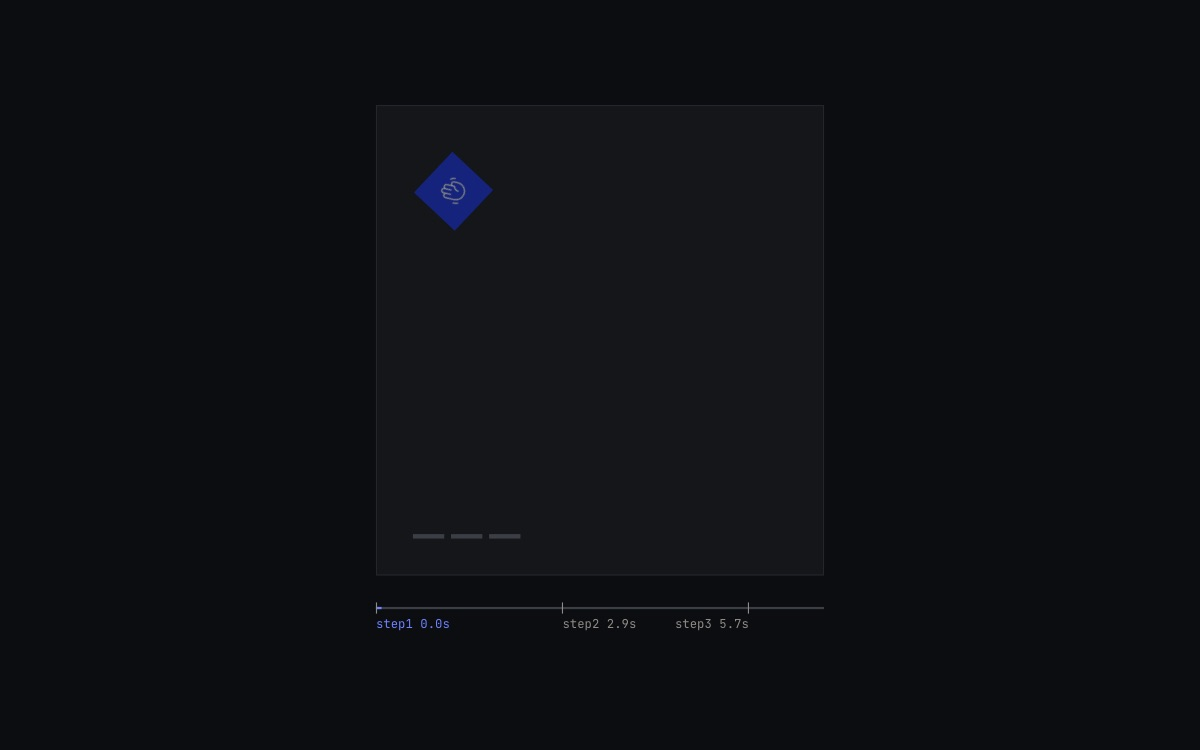
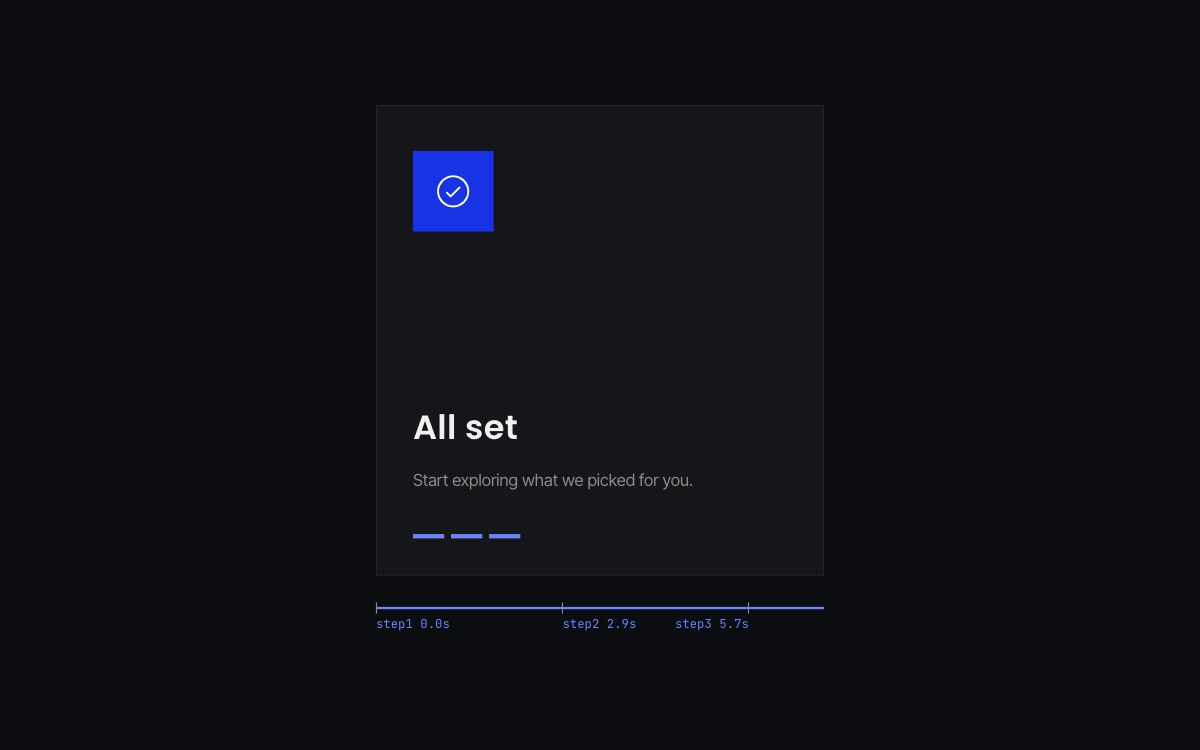
練習 42 加入左右甩出版本（可切換）；複製時自動拿掉示範動畫；首頁切換語言不再空白（記住捲動位置）；練習 40 面板 hover 顏色依模式反轉；練習 02 縮圖改截完成畫面

diff --git a/works/42-falling-stack/script.js b/works/42-falling-stack/script.js
@@ -1,8 +1,9 @@
 gsap.registerPlugin(ScrollTrigger);
 
 // ── 試著改這幾個數字 ──
-const PER_CARD = 0.6;   // 每張卡片掉落要捲多遠（畫面高的倍數）：越大掉得越慢
-const TILT = 12;        // 掉落時最多轉幾度
+const PER_CARD = 0.6;   // 每張卡片離場要捲多遠（畫面高的倍數）：越大越慢
+const TILT = 12;        // 往下掉落時最多轉幾度
+const SWIPE_TILT = 24;  // 左右甩出時轉幾度（甩出去的力道比較大，轉得多一點）
 const SCRUB = 0.6;      // 跟手的延遲秒數；改成 true 會完全貼著捲動
 
 // 是否顯示 markers：由作品頁預覽上方的開關決定（首頁縮圖預設不顯示）
@@ -15,33 +16,68 @@ cards.forEach((card, i) => { card.style.zIndex = cards.length - i; });
 
 // 疊起來的樣子：第 n 張往上錯開 n × 20px、縮小 n × 6%、暗一點（越後面越小、越高、越暗）
 const stacked = n => ({ y: -n * 20, scale: 1 - n * 0.06, filter: `brightness(${1 - n * 0.18})` });
-cards.forEach((card, i) => gsap.set(card, stacked(i)));
 
-if (!reduce) {
-  const tl = gsap.timeline({
+// 兩種離場方式：回傳「第 i 張卡片」要動到哪裡
+const EXITS = {
+  // 往下掉出畫面，左右交替傾斜；ease 一開始慢、越掉越快，像受重力影響
+  fall: i => ({
+    y: () => innerHeight,
+    rotation: (i % 2 ? -1 : 1) * TILT,
+    // 只在最後 40% 才淡出：太早半透明會透出後面的卡片，看起來像掉到後面去
+    opacity: 0,
+    ease: 'power2.in'
+  }),
+  // 左右交替甩出畫面：往旁邊飛、稍微往上揚、轉比較多；甩出去不用淡出，直接飛出畫面外
+  swipe: i => {
+    const dir = i % 2 ? -1 : 1;
+    return {
+      x: () => dir * (innerWidth / 2 + cards[0].offsetWidth), // 中心點移到畫面外，再多一張卡片寬，確保整張出去
+      y: -40,
+      rotation: dir * SWIPE_TILT,
+      ease: 'power1.in'
+    };
+  }
+};
+
+let tl;
+function build(mode) {
+  // 換方式時：先把舊的 timeline 和它的 ScrollTrigger（含固定畫面）拆掉，卡片回到疊好的樣子
+  if (tl) { tl.scrollTrigger.kill(); tl.kill(); }
+  gsap.set(cards, { clearProps: 'x,y,rotation,opacity' });
+  cards.forEach((card, i) => gsap.set(card, stacked(i)));
+  if (reduce) return; // 減少動態：維持疊好的樣子，不做離場動畫
+
+  tl = gsap.timeline({
     defaults: { ease: 'none' },
     scrollTrigger: {
       trigger: '.pile',
       start: 'top top',
       end: () => `+=${innerHeight * PER_CARD * (cards.length - 1)}`, // 每張卡片分到一段捲動距離
-      pin: true,           // 固定住：卡片沒掉完之前，頁面看起來不會往下走
+      pin: true,           // 固定住：卡片沒離場完之前，頁面看起來不會往下走
       scrub: SCRUB,
       invalidateOnRefresh: true,
       markers: SHOW_MARKERS
     }
   });
 
-  // 最後一張留著（掉完所有卡片後，畫面上還有東西），其他依序掉落
+  // 最後一張留著（其他都離場後，畫面上還有東西），其他依序離場
   cards.slice(0, -1).forEach((card, i) => {
     const at = i; // 第 i 段捲動
-    tl.to(card, {
-      y: () => innerHeight,                                   // 往下掉出畫面
-      rotation: (i % 2 ? -1 : 1) * TILT,                       // 左右交替傾斜
-      opacity: 0,
-      duration: 1,
-      ease: 'power2.in'                                         // 一開始慢、越掉越快，像受重力影響
-    }, at);
+    const { opacity, ...move } = EXITS[mode](i);
+    tl.to(card, { ...move, duration: 1 }, at);
+    if (opacity !== undefined) tl.to(card, { opacity, duration: 0.4 }, at + 0.6);
     // 同一段時間裡，後面的每張卡片都往前遞補一格（變大、往下）
     cards.slice(i + 1).forEach((rest, j) => tl.to(rest, { ...stacked(j), duration: 1, ease: 'power2.out' }, at));
   });
 }
+
+// ── 切換按鈕 ──
+const buttons = document.querySelectorAll('.mode-btn');
+buttons.forEach(btn => btn.addEventListener('click', () => {
+  buttons.forEach(b => b.setAttribute('aria-pressed', b === btn));
+  // 先回到最上面再重建：卡片從疊好的樣子重新開始
+  window.scrollTo(0, 0);
+  build(btn.dataset.mode);
+}));
+
+build('fall');

diff --git a/js/works-data.js b/js/works-data.js
@@ -112,7 +112,8 @@ export const WORKS = [
           "en": "Each step’s entrance is a function that returns a small timeline, added to the main one with tl.add(). All three steps share the same code."
         }
       }
-    ]
+    ],
+    "thumbEnd": true
   },
   {
     "id": "03-scroll-logo",
@@ -2406,23 +2407,24 @@ export const WORKS = [
   {
     "id": "42-falling-stack",
     "title": {
-      "zh-TW": "捲動時堆疊卡片依序掉落",
-      "en": "Stacked cards fall away as you scroll"
+      "zh-TW": "捲動時堆疊卡片依序掉落或甩出",
+      "en": "Stacked cards fall or swipe away as you scroll"
     },
     "short": {
       "zh-TW": "卡片依序掉落",
       "en": "Falling stack"
     },
     "summary": {
-      "zh-TW": "和「捲動時卡片堆疊」相反：一開始就是一疊卡片，往下捲時畫面先固定住，最上面的卡片一張張往下掉落消失、後面的往前遞補；掉完之後頁面才真的開始捲動。往回捲會再疊回去。",
-      "en": "The reverse of “cards stack as you scroll”: it starts as a stack, the view stays pinned while the top cards fall away one by one and the rest move forward; only then does the page actually scroll. Scroll back to restack them."
+      "zh-TW": "和「捲動時卡片堆疊」相反：一開始就是一疊卡片，往下捲時畫面先固定住，最上面的卡片一張張離場、後面的往前遞補；全部離場後頁面才真的開始捲動。上方可切換兩種離場方式：往下掉落，或左右交替甩出。往回捲會再疊回去。",
+      "en": "The reverse of “cards stack as you scroll”: it starts as a stack, the view stays pinned while the top cards leave one by one and the rest move forward; only then does the page actually scroll. Switch between two exits at the top: falling down, or swiping out left and right. Scroll back to restack them."
     },
     "topic": "scroll",
     "tech": "ScrollTrigger",
     "tags": [
       "pin",
       "scrub",
-      "power2.in"
+      "power2.in",
+      "x / rotation"
     ],
     "date": "2026-11-23",
     "markers": true,
@@ -2447,6 +2449,13 @@ export const WORKS = [
         "text": {
           "zh-TW": "掉落用「一開始慢、越來越快」的 ease，像受重力影響；後面的卡片往前遞補則用 power2.out，快到位、慢慢停。",
           "en": "Falling uses an ease that starts slow and speeds up, like gravity; the cards behind move forward with power2.out, arriving quickly and settling."
+        }
+      },
+      {
+        "code": "EXITS = { fall, swipe }",
+        "text": {
+          "zh-TW": "兩種離場方式寫成兩個函式，回傳「第 i 張卡片要動到哪裡」，其他（固定畫面、遞補）完全共用。甩出用 x 往左右交替飛出畫面（i % 2 決定方向），轉的角度比掉落大、不用淡出；切換時先把舊的 timeline 和 ScrollTrigger 拆掉再重建。",
+          "en": "Each exit is a function that returns where card i should go; pinning and the move-forward are shared. Swipe flies cards out with x, alternating sides by i % 2, with more rotation and no fade. Switching kills the old timeline and its ScrollTrigger, then rebuilds."
         }
       },
       {

diff --git a/works/26-tilt-card/script.js b/works/26-tilt-card/script.js
@@ -24,6 +24,7 @@ if (!reduce && window.matchMedia('(hover: hover)').matches) {
   // 光斑是卡片的 2 倍大（inset: -50%），所以移動「卡片寬度 × px」= 自己寬度的 px × 50%
   const GLARE = 50;
 
+  let demo = null; // 自動示範的 timeline（滑鼠進來時停掉；複製時示範被拿掉就是 null）
   card.addEventListener('pointermove', e => {
     const { px, py } = point(e);
     rotY(px * MAX_TILT * 2);     // 左右移動 → 繞 Y 軸轉
@@ -32,7 +33,7 @@ if (!reduce && window.matchMedia('(hover: hover)').matches) {
     glY(py * GLARE);
   });
   card.addEventListener('pointerenter', e => {
-    demo.kill();
+    demo?.kill();
     // 一進來就把光斑放在游標的位置（quickTo 第二個值是起點：起點＝終點就是直接跳過去），再淡入
     // 不這樣做的話，光斑會從上一次的位置（通常是正中央）滑過來
     const { px, py } = point(e);
@@ -48,10 +49,12 @@ if (!reduce && window.matchMedia('(hover: hover)').matches) {
     gsap.to(glare, { opacity: 0, duration: 0.4 }); // 只淡出、位置不動：下次進來時直接從游標的位置出現
   });
 
+  // #region demo（複製時會自動拿掉這一段：只是載入後自己播一次給你看）
   // ── 自動示範一次（首頁縮圖也看得到動態）：左右輕輕晃一下再回正 ──
   // 滑鼠一進來就停掉示範，交給滑鼠控制（不然示範會和 quickTo 搶角度）
-  const demo = gsap.timeline({ delay: 0.8 })
+  demo = gsap.timeline({ delay: 0.8 })
     .to(card, { rotationY: 12, rotationX: 6, duration: 0.8, ease: 'power2.inOut' })
     .to(card, { rotationY: -10, rotationX: -4, duration: 1, ease: 'power2.inOut' })
     .to(card, { rotationY: 0, rotationX: 0, duration: 0.8, ease: 'expo.out' });
+  // #endregion demo
 }

diff --git a/works/42-falling-stack/style.css b/works/42-falling-stack/style.css
@@ -51,15 +51,24 @@ body {
 .tag { font: 400 12px/1 "JetBrains Mono", monospace; color: var(--accent-fg); }
 
 body { display: block; overflow-x: hidden; }
+main, .pile { width: 100%; } /* 撐滿整個寬度：甩出去的卡片才不會在區塊邊緣被切掉 */
 
 /* 整個區塊佔一個畫面高；捲動時被 ScrollTrigger 固定（pin） */
 .pile { height: 100vh; display: grid; grid-template-rows: auto 1fr; justify-items: center; padding: 24px 16px; overflow: hidden; }
 .pile-head { display: grid; justify-items: center; gap: 8px; }
 .hint { font-size: 14px; color: var(--muted); }
 
+/* 離場方式切換（兩顆按鈕；選中的是實心強調色） */
+.modes { display: flex; border: 1px solid var(--line-strong); }
+.mode-btn { height: 32px; padding: 0 14px; border: 0; background: transparent; color: var(--muted); font: 400 13px/1 "Inter Tight", sans-serif; cursor: pointer; transition: background-color 0.3s, color 0.3s; }
+.mode-btn[aria-pressed="true"] { background: var(--accent); color: #fff; }
+.mode-btn[aria-pressed="false"]:hover { background: var(--surface-2); color: var(--text); }
+.mode-btn:active { transform: scale(0.97); }
+.mode-btn:focus-visible { outline: 2px solid var(--accent-fg); outline-offset: -2px; }
+
 /* 一疊卡片：全部疊在同一個位置；後面的卡片稍微小一點、往上錯開一點，看得出是一疊 */
 /* 寬度也受畫面高度限制：預覽框比較矮時，整疊（含往上錯開的 60px）仍然放得下 */
-.deck { position: relative; align-self: center; width: min(420px, 78vw, (100vh - 200px) * 4 / 3); aspect-ratio: 4 / 3; margin-top: 60px; }
+.deck { position: relative; align-self: center; width: min(420px, 78vw, (100vh - 240px) * 4 / 3); aspect-ratio: 4 / 3; margin-top: 60px; }
 .drop-card {
   position: absolute;
   inset: 0;

diff --git a/js/work.js b/js/work.js
@@ -280,8 +280,9 @@ function setupMarkers() {
 function previewSrc() { return work.markers && showMarkers ? `${src}?markers` : src; }
 
 // 把三個檔案合成一個 HTML；加上 <base> 讓相對路徑（圖片等）仍然找得到
-function buildHtml({ withBase = true } = {}) {
+function buildHtml({ withBase = true, forCopy = false } = {}) {
   const v = values();
+  if (forCopy) v.js = stripDemo(v.js);
   let html = v.html
     .replace(/<link[^>]*href=["']style\.css["'][^>]*>/, () => `<style>\n${v.css}\n  </style>`)
     .replace(/<script[^>]*src=["']script\.js["'][^>]*><\/script>/, () => `<script>\n${v.js}\n  </script>`);
@@ -291,6 +292,9 @@ function buildHtml({ withBase = true } = {}) {
   }
   return html;
 }
+
+// 複製用：拿掉練習裡標成 demo 的段落（載入後自己播一次的示範，貼到自己的專案不需要）
+const stripDemo = js => js.replace(/[ \t]*\/\/ #region demo[\s\S]*?\/\/ #endregion demo[^\n]*\n?/g, '').replace(/\n{3,}/g, '\n\n').trimEnd() + '\n';
 
 function renderEdited() { frame.srcdoc = buildHtml(); }
 
@@ -489,8 +493,9 @@ function setupCopy() {
       catch { toast(t('work.copyFailed'), 'error'); announce(t('work.copyFailed')); }
     });
   };
-  bind(document.getElementById('copyBtn'), () => values()[current] ?? '', () => LANG_NAMES[current]);
-  bind(document.getElementById('copyAllBtn'), () => buildHtml({ withBase: false }), () => t('work.copiedAll'));
+  // 複製時拿掉自動示範（只有 JS 有）
+  bind(document.getElementById('copyBtn'), () => { const v = values()[current] ?? ''; return current === 'js' ? stripDemo(v) : v; }, () => LANG_NAMES[current]);
+  bind(document.getElementById('copyAllBtn'), () => buildHtml({ withBase: false, forCopy: true }), () => t('work.copiedAll'));
   labelCopy();
 }
 

diff --git a/js/home.js b/js/home.js
@@ -26,6 +26,15 @@ if (hasGsap) gsap.registerPlugin(ScrollTrigger, SplitText);
 if ('scrollRestoration' in history) history.scrollRestoration = 'manual';
 if (!location.hash) window.scrollTo(0, 0);
 
+// 剛切換語言：回到切換前的位置，不重播開場（見 i18n.js 的 setLang）
+const resumeY = (() => {
+  try {
+    const saved = JSON.parse(sessionStorage.getItem('langScroll'));
+    sessionStorage.removeItem('langScroll');
+    return saved?.path === location.pathname ? saved.y : null;
+  } catch { return null; }
+})();
+
 await initI18n();
 initHeader();
 renderFilters();
@@ -42,6 +51,10 @@ if (hasGsap) {
   document.documentElement.classList.remove('intro'); // 沒有動畫：直接顯示開場
 }
 scrollToHash();
+if (resumeY !== null) {
+  window.ScrollTrigger?.refresh(); // 開場的固定畫面會把頁面撐長，算好位置再捲過去
+  scrollToY(resumeY, { immediate: true });
+}
 
 // 從作品頁點「作品」回來（網址帶 #works）：
 // 開場固定畫面會把頁面撐長，要等 ScrollTrigger 算好位置再捲過去
@@ -391,7 +404,7 @@ function initMotion() {
       .add(showRest, '-=0.3');                                                   // 開場收尾時，其他內容才出現
 
     // 從作品頁回到 #works：不等開場，直接顯示
-    if (location.hash) intro.progress(1);
+    if (location.hash || resumeY !== null) intro.progress(1);
 
     return () => split.revert();
   });

diff --git a/works/40-menu-expand/style.css b/works/40-menu-expand/style.css
@@ -10,6 +10,7 @@
   --accent: #1733E5;
   --accent-hover: #2B45F0; /* 實心按鈕滑過 */
   --accent-fg: #6E83FF;
+  --accent-on-panel: #1733E5; /* 面板是反色的（深色模式下是白底），面板上的強調字要用深藍 */
   --success: #4CC38A;
   --warning: #F2B35A;
   --danger: #FF7A7A;
@@ -26,6 +27,7 @@
   --text: #141518;
   --muted: #62625D;
   --accent-fg: #1733E5;
+  --accent-on-panel: #6E83FF; /* 亮色模式下面板是黑底，改用淺藍 */
   --success: #0B7354;
   --warning: #8A5300;
   --danger: #C0262D;
@@ -92,10 +94,10 @@ body { display: block; }
 .nav { padding: 8px 18px 22px; }
 .nav ul { list-style: none; display: grid; gap: 2px; }
 .nav a { color: inherit; text-decoration: none; font: 500 clamp(32px, 6vw, 44px)/1.15 "Poppins", sans-serif; letter-spacing: -0.02em; }
-.nav a:focus-visible { outline: 2px solid var(--accent-fg); outline-offset: 2px; }
+.nav a:focus-visible { outline: 2px solid var(--accent-on-panel); outline-offset: 2px; }
 .mask { display: block; overflow: hidden; padding-bottom: 0.06em; }
 .item { display: inline-block; transition: color 0.3s; }
-.nav a:hover .item { color: var(--accent-fg); }
+.nav a:hover .item { color: var(--accent-on-panel); }
 
 /* 後方變暗 */
 .scrim { position: fixed; inset: 0; z-index: 10; background: rgba(0, 0, 0, 0.45); opacity: 0; pointer-events: none; }

diff --git a/works/42-falling-stack/index.html b/works/42-falling-stack/index.html
@@ -23,11 +23,16 @@
 </head>
 <body>
   <main>
-    <!-- 一開始就是一疊卡片（假圖片：藍底＋白色圖示）。往下捲時畫面先固定住，最上面的卡片一張張往下掉落消失，
+    <!-- 一開始就是一疊卡片（假圖片：藍底＋白色圖示）。往下捲時畫面先固定住，最上面的卡片一張張往下掉落（或左右甩出）消失，
          全部掉完之後，頁面才真的開始往下捲（和練習 37「捲動時卡片堆疊」相反） -->
     <section class="pile">
       <div class="pile-head">
         <span class="tag">falling stack</span>
+        <!-- 切換兩種離場方式：往下掉落／左右甩出 -->
+        <div class="modes" role="group" aria-label="Exit style">
+          <button type="button" class="mode-btn" data-mode="fall" aria-pressed="true">Fall</button>
+          <button type="button" class="mode-btn" data-mode="swipe" aria-pressed="false">Swipe</button>
+        </div>
         <p class="hint">↓ Scroll inside the preview</p>
       </div>
       <div class="deck">

diff --git a/index.html b/index.html
@@ -16,7 +16,8 @@
   <meta name="twitter:card" content="summary_large_image">
   <!-- 有動態時，先把開場藏起來，等 GSAP 設好初始狀態再顯示（避免一載入就閃出方塊和文字） -->
   <!-- 保險：6 秒後還沒播完（例如 GSAP 載不到），就直接顯示 -->
-  <script>if (!matchMedia('(prefers-reduced-motion: reduce)').matches) { document.documentElement.classList.add('intro'); setTimeout(() => document.documentElement.classList.remove('intro'), 6000); }</script>
+  <script>if ('scrollRestoration' in history) history.scrollRestoration = 'manual'; /* 越早設越好：模組程式執行時瀏覽器可能已經還原了捲動位置 */
+  if (!matchMedia('(prefers-reduced-motion: reduce)').matches) { document.documentElement.classList.add('intro'); setTimeout(() => document.documentElement.classList.remove('intro'), 6000); }</script>
 
   <!-- 配色：先套用記住的設定（沒有就跟著系統），在畫面出現前完成，避免閃一下 -->
   <script>

diff --git a/tools/capture.html b/tools/capture.html
@@ -65,7 +65,11 @@
       fit();
       frame.contentDocument.fonts.ready.then(fit);
       // 等練習的自動示範播完再截圖（make_thumbs.py 用 virtual-time-budget 控制時間）
-      setTimeout(() => { frame.contentWindow.ScrollTrigger?.refresh(); fit(); }, 3500);
+      setTimeout(() => {
+        // meta.json 的 "thumbEnd": true → 把目前所有動畫直接跳到結尾再截（避免截到轉場轉一半的畫面）
+        if (meta.thumbEnd) frame.contentWindow.gsap?.exportRoot().progress(1);
+        frame.contentWindow.ScrollTrigger?.refresh(); fit();
+      }, 3500);
     });
     frame.src = `../works/${id}/index.html`;
   </script>

diff --git a/works/12-floating-label/script.js b/works/12-floating-label/script.js
@@ -53,6 +53,7 @@ document.querySelectorAll('.field').forEach(field => {
   update(); // 一開始就依目前的內容擺好位置（例如瀏覽器記住的值）
 });
 
+// #region demo（複製時會自動拿掉這一段：只是載入後自己播一次給你看）
 // ── 自動示範一次（首頁縮圖也看得到動態）：幫第一個欄位填入假資料，標籤會浮起來 ──
 // （不用 focus()：放在作品頁預覽裡，focus 會讓外面的頁面跟著捲動）
 if (!reduce) {
@@ -62,3 +63,4 @@ if (!reduce) {
     name.dispatchEvent(new Event('input'));
   });
 }
+// #endregion demo

diff --git a/works/28-password-strength/script.js b/works/28-password-strength/script.js
@@ -72,8 +72,10 @@ reveal.addEventListener('click', () => {
   reveal.querySelector('i').className = `ph-light ${show ? 'ph-eye-slash' : 'ph-eye'}`;
 });
 
+// #region demo（複製時會自動拿掉這一段：只是載入後自己播一次給你看）
 // ── 自動示範一次：一個字一個字「打」出一組密碼，看強度慢慢升級（假資料） ──
 if (!reduce) {
   const demo = 'Motion#2026';
   [...demo].forEach((_, i) => gsap.delayedCall(0.8 + i * 0.12, () => { input.value = demo.slice(0, i + 1); update(); }));
 }
+// #endregion demo
